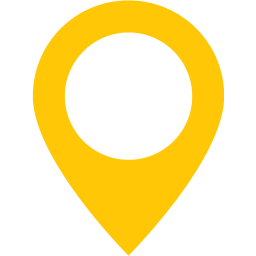
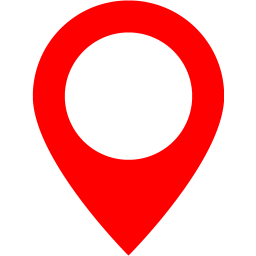
minor changes of styles

diff --git a/views/pages/theatre_list.html b/views/pages/theatre_list.html
@@ -1,7 +1,7 @@
 <html lang="en">
 
 <head>
-    <title>Sample</title>
+    <title>Theaters</title>
     <meta charset="UTF-8" />
     <link rel="stylesheet" href="css/layout.css" />
     <link rel="stylesheet" href="css/style.css" />
@@ -9,14 +9,30 @@
     <link rel="stylesheet" href="https://cdnjs.cloudflare.com/ajax/libs/font-awesome/4.7.0/css/font-awesome.min.css">
     <meta name="viewport" content="width=device-width, initial-scale=1" />
     <script src="https://ajax.googleapis.com/ajax/libs/jquery/3.6.4/jquery.min.js"></script>
+    <link rel="stylesheet" href="https://fonts.googleapis.com/css2?family=Biryani:wght@200;300;400;600;700;800;900&family=Noto+Sans:ital,wght@0,200;0,300;0,400;0,500;0,600;0,700;1,100&family=Play:wght@400;700&family=Roboto+Flex:opsz,wght@8..144,100..1000&display=swap"/>
 
     <script src="js/theatres.js"></script>
     <script>
         let showTimes = [];
         let selectedDate;
+        let filterByMovieId;
+        // Show spinner before AJAX request starts
+        $(document).ajaxStart(function () {
+            $('#spinner').show();
+        });
+
+        // Hide spinner when AJAX request completes (either successfully or with error)
+        $(document).ajaxComplete(function () {
+            $('#spinner').hide();
+        });
+
         $(document).ready(function () {
+            const urlParams = new URLSearchParams(window.location.search);
+            filterByMovieId = urlParams.get('movieId');
+            console.log('movieId', filterByMovieId);
             updateShowTimes("all");
             changeSelectedDate($('.date:first'));
+
             console.log("selectedDate", selectedDate);
         });
 
@@ -26,12 +42,16 @@
                 url: '/getShowTimes/' + selectedTheaters, // Server-side endpoint to fetch showTimes
                 type: 'GET',
                 dataType: 'json',
+                beforeSend: function () {
+                    // Show spinner before AJAX request starts
+                    $('#spinner').show();
+                },
                 success: function (response) {
                     if (!response) {
                         $('#showTimeList').html('Sorry we could not find any showtimes for selected date');
                     } else {
                         console.log("updatingShowTimes", response);
-                        
+
                         showTimes = response;
                         showResults();
                     }
@@ -39,6 +59,10 @@
                 error: function (xhr, status, error) {
                     console.error('Error fetching showtimes:', error);
                     $('#theatresList').html('Error fetching showtimes');
+                },
+                complete: function () {
+                    // Hide spinner when AJAX request completes
+                    $('#spinner').hide();
                 }
             });
         }
@@ -49,7 +73,7 @@
             if (showTimes) {
                 for (let ele of showTimes) {
                     console.log(ele);
-                    const html = createPlayTimeDiv(ele, selectedDate);
+                    const html = createPlayTimeDiv(ele, selectedDate, filterByMovieId);
                     //console.log(html);
                     $('#showTimeList').append(html);
                 }
@@ -151,9 +175,7 @@
                     <!-- </div> -->
                     <%}%>
             </div>
-
-            <div id="showTimeList">
-
+            <div id="showTimeList">                
             </div>
         </div>
         <%- include('footer.html'); %>

diff --git a/views/js/theatres.js b/views/js/theatres.js
@@ -37,7 +37,7 @@ function setToCurrentLocation() {
 //     }
 // }
 
-function createPlayTimeDiv(data, selectedDate) {
+function createPlayTimeDiv(data, selectedDate, filterBydMovieId) {
     
     let html = "<div class='theatreBox'><h2>Now playing at "+data.theaterName+"</h2><div class='theatreShowTimeList'>";
     let count = 0;
@@ -47,7 +47,7 @@ function createPlayTimeDiv(data, selectedDate) {
             console.log(selectedDate, movieTime.date);
             if (selectedDate == movieTime.date) {
                 for (let movie of movieTime.movies) {
-                    if (movie.movieDetail) {
+                    if (movie.movieDetail && (!filterBydMovieId || movie.movieDetail.movie_id == filterBydMovieId)) {
                         count++;
                         console.log('movies are same', movie);
                         html += "<div class='moviePoster flex-transforming gap_10' onclick='goToDetail(\"" + movie.movieDetail.movie_id + "\")'>";
@@ -55,7 +55,7 @@ function createPlayTimeDiv(data, selectedDate) {
                                 html += "<div class='flex-column gap_10 padding_10'><label class='posterTitle'>" + movie.name + "</label>"+
                                         "<label class='lightText'>"+movie.movieDetail.release_date+ "</label>"+
                                         "<label class='lightText'>Rating: " +movie.movieDetail.vote_average+"</label></div></div>";
-                                html += "<div class='gap_5 padding_10 flex-column'><div class='typeText'>"+(movie.showing[0].type?movie.showing[0]:'Standard')+"</div>";
+                                html += "<div class='gap_5 padding_10 flex-column'><div class='typeText'>"+(movie.showing[0].type?movie.showing[0].type:'Standard')+"</div>";
                         for (let time of movie.showing[0].time) {
                             //console.log('time', time);
                             html += "<div>" + time + "</div>";
@@ -74,9 +74,8 @@ function createPlayTimeDiv(data, selectedDate) {
     return html;
 }
 
-function goDetail(movieId) {
-    alert(movieId);
-    const url = '/movie/${movieId}';
+function goToDetail(movieId) {
+    const url = `/movie_details/${movieId}`;
     window.location.href = url;
 }
 

diff --git a/views/css/theatres.css b/views/css/theatres.css
@@ -6,7 +6,7 @@
     position: relative;
     background-color: #141414;
     color: white;
-    font-family: 'Franklin Gothic Medium', 'Arial Narrow', Arial, sans-serif;
+    font-family: "Roboto Flex", sans-serif;
     margin-top: 70px;
     padding: 10px 70px;
 }
@@ -19,7 +19,7 @@
 .typeText {
     margin-bottom:10px; 
     font-size:15px;
-    color: #ffc705;
+    color: red;
 }
 
 .padding_20 {
@@ -54,7 +54,7 @@
 .btn:hover {
     cursor: pointer;
     border-radius: 30px;
-    box-shadow: inset 0 0 0px #ffc705, 0 0 30px rgba(255, 255, 10, 100);
+    box-shadow: inset 0 0 0px red, 0 0 30px rgba(255, 0, 0, 100);
     outline-offset: 15px;
     text-shadow: 1px 1px 2px #427388;
 }
@@ -115,7 +115,6 @@ form {
     align-items: center;
     padding: 10px;
     border-radius: 5px;
-    font-family: 'Franklin Gothic Medium', 'Arial Narrow', Arial, sans-serif;
 }
 
 .date {
@@ -132,7 +131,7 @@ form {
 .date-selected {
     cursor: pointer;
     border: 1px solid;
-    box-shadow: inset 0 0 20px #ffc705, 0 0 20px rgba(255, 255, 10, 100);
+    box-shadow: inset 0 0 20px red, 0 0 20px rgba(255, 0, 0, 100);
     outline-color: rgba(255, 255, 255, 0);
     outline-offset: 15px;
     text-shadow: 1px 1px 2px #427388;
@@ -143,6 +142,10 @@ form {
     border-radius: 5px;
     width: 30%;
     display: flex;
+}
+
+.moviePoster:hover {
+    cursor: pointer;
 }
 
 .poster img {
@@ -197,7 +200,7 @@ form {
 }
 
 #selectedLocation {
-    color: #ffc705;
+    color: red;
     font-weight: bolder;
 }
 
@@ -212,6 +215,7 @@ form {
 .poster {
     /* height: 200px; */
     display: flex;
+    width: 75%;
 }
 
 .posterTitle {
@@ -274,6 +278,25 @@ form {
     font-size: 20px;
     position: absolute;
     display: none;
+}
+
+#spinner {
+    display: none;
+    position: relative;
+    top: 50%;
+    left: 50%;
+    transform: translate(-50%, -50%);
+    width: 50px;
+    height: 50px;
+    border: 3px solid #f3f3f3;
+    border-radius: 50%;
+    border-top: 3px solid ffc705;
+    animation: spin 1s linear infinite;
+}
+
+@keyframes spin {
+    0% { transform: rotate(0deg); }
+    100% { transform: rotate(360deg); }
 }
 
 @media screen and (max-width: 510px) {
